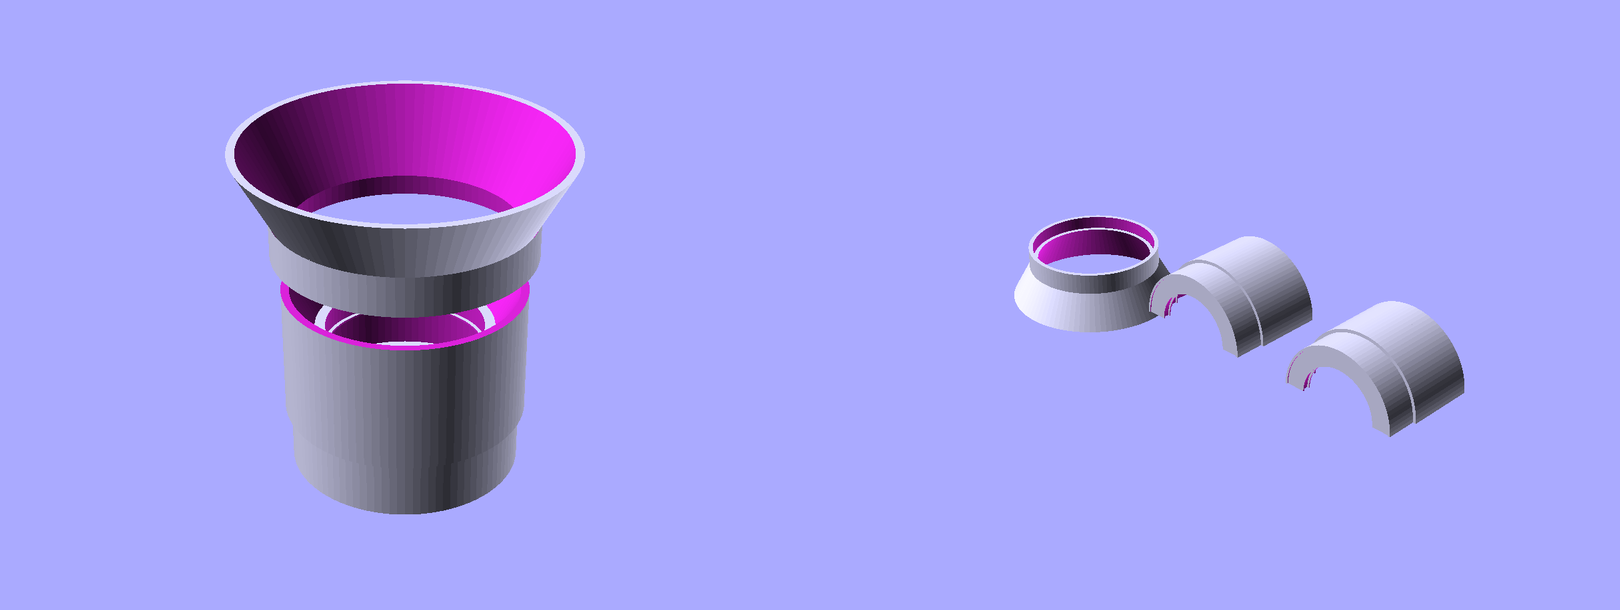
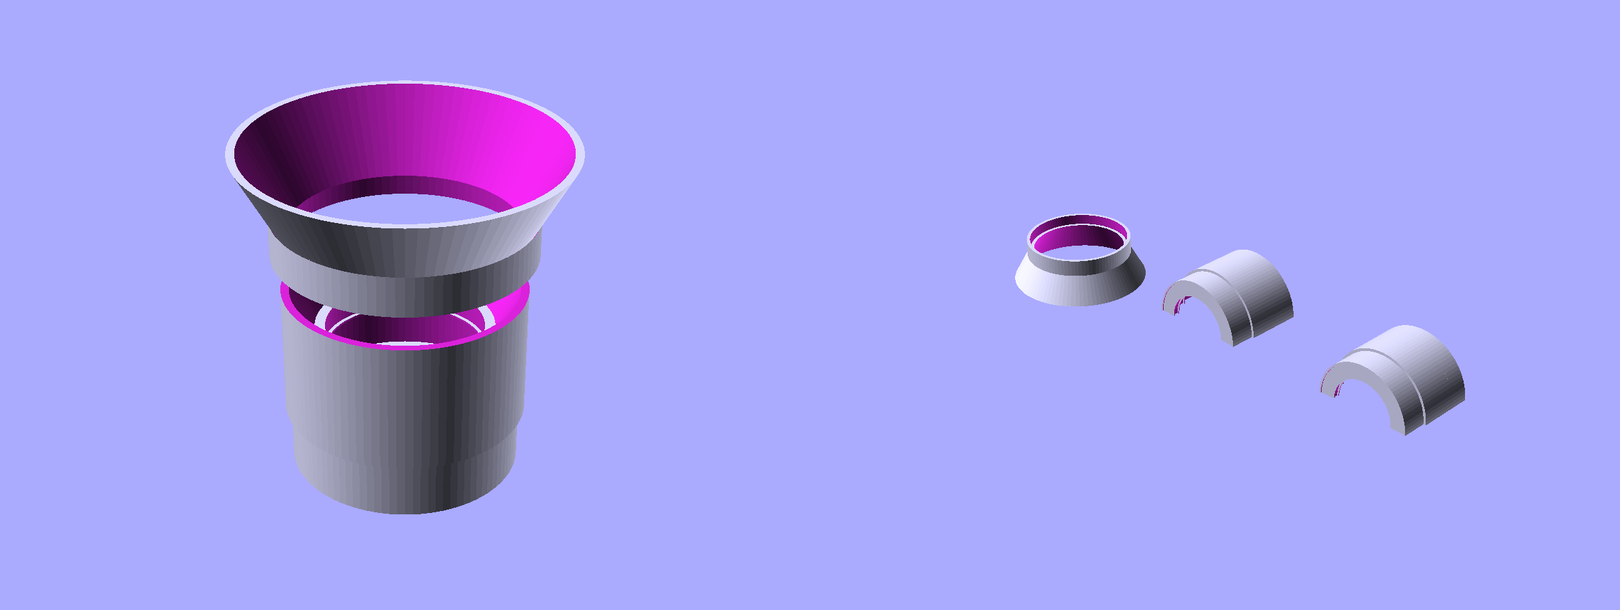
example/lens-housing: widen the print-layout gap
Previous 25 mm gap was uniform across the three parts but visually
tight next to the hood's 80 mm flare. Bump to one upper_housing_od
(~59 mm for the M57 design) so the hood and each housing half have an
obvious breathing room on the bed. The value is expressed as
`self.housing.upper_housing_od` so concrete subclasses with larger or
smaller barrels stay proportional.

Changed region(s): [[0.6173, 0.3426, 0.9259, 0.7164]]

diff --git a/examples/lens-housing.py b/examples/lens-housing.py
@@ -258,7 +258,7 @@ class M57Lens(Design):
         flipped_hood = self.hood.flip("z")   # wide flare on the print bed
         half_bb = bbox(half)
         hood_bb = bbox(flipped_hood)
-        gap = 25
+        gap = self.housing.upper_housing_od   # ~one barrel-diameter of breathing room
         half_w = half_bb.size[0]
         hood_w = hood_bb.size[0]
         y_align = half_bb.center[1] - hood_bb.center[1]
